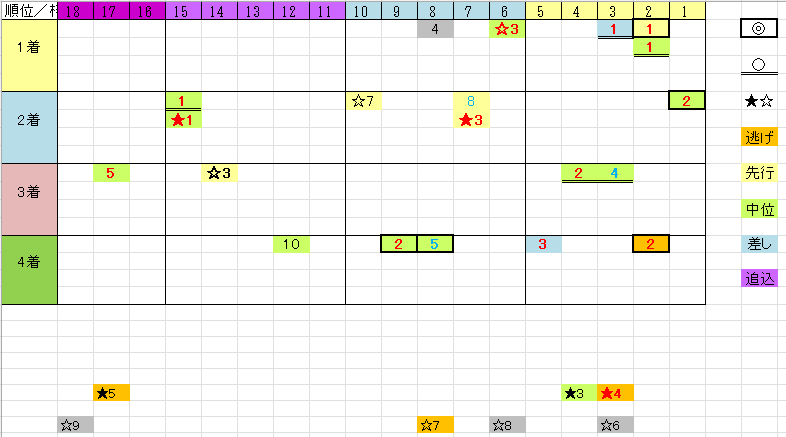
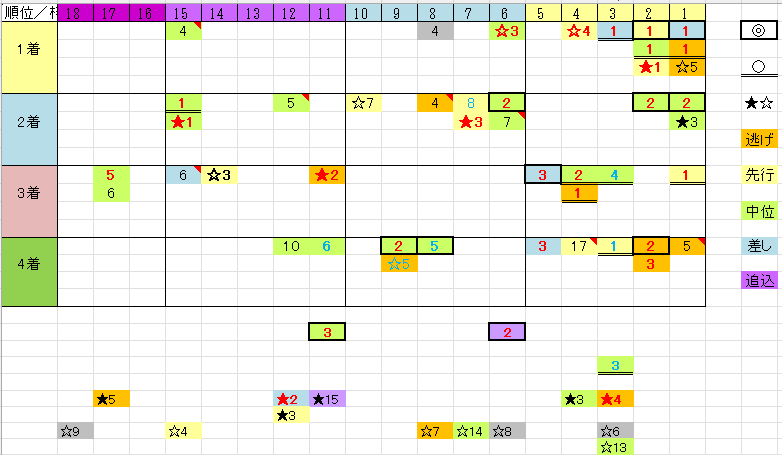
20261123update

Changed region(s): [[0.0, 0.0, 1.0, 1.0], [0.0307, 0.0892, 0.0614, 0.119]]

diff --git a/posts/gamble/2026-11-29-0001.md b/posts/gamble/2026-11-29-0001.md
@@ -5,25 +5,29 @@ category: "ギャンブル"
 ---
 * [-Hyper-Link to this SITE MAP-](../../sitemap.html)
 
-##JC　展望（仮版）
+##JC　展望
 
 <p><a href="../../images/20261129.png"><img src="../../images/20261129.png" border="0" /></a></p>
-<p>※データは仮版。20213～2025年（計5回）</p>
+<p>※データは、2019年を除く、2014～2025年（計11回）</p>
 <p>　</p>
 <p>●人気から見る傾向</p>
 <p>・後述のとおり、実績が必要で、人気サイド決着傾向が強い</p>
 <p>・過去５年に限ると、◎○は全て４着以内。これはかなりの偏り。</p>
 <p>　</p>
+<p>・実績上位の◎○２頭なら、３人気以下は信頼度低い</p>
+<p>　</p>
 <p>●脚質傾向</p>
-<p>・逃げは不利</p>
+<p>・逃げ穴はイマイチ</p>
 <p>　</p>
 <p>●前走</p>
 <p>・</p>
 <p>　</p>
 <p>●その他</p>
-<p>・馬券内のほとんどの馬に、何らかの印が付いている</p>
-<p>・秋天より「府中強っ！」な府中特化傾向は無いものの、ダービーやオークス実績＋αがある馬が来ている</p>
-<p>・</p>
+<p>・馬柱にあると心強いレース</p>
+<p>　・菊花賞、秋華賞　勝利</p>
+<p>　・府中G1　勝利</p>
+<p>　・アルゼンチン共和国杯　勝利</p>
+<p>・外国人騎手</p>
 <p>　</p>
 
 * [-Hyper-Link to this SITE MAP-](../../sitemap.html)

diff --git a/posts/gamble/2026-12-27-0001.md b/posts/gamble/2026-12-27-0001.md
@@ -7,25 +7,26 @@ category: "ギャンブル"
 
 ##有馬記念　展望
 
+<p>投票してきました</p>
 <p><a href="../../images/2026arimafan_vote.jpg"><img src="../../images/2026arimafan_vote.jpg" border="0" /></a></p>
-
-<!--
-<p><a href="../../images/20261122.png"><img src="../../images/20261122.png" border="0" /></a></p>
--->
+<p>　</p>
+<p><a href="../../images/20261227.png"><img src="../../images/20261227.png" border="0" /></a></p>
+<p>※データは、2015～2025年（計１１回）</p>
 <p>※データは年（計 回）</p>
 <p>　</p>
 <p>●人気から見る傾向</p>
+<p>・実績上位◎○なら、３人気まで</p>
 <p>・</p>
 <p>　</p>
 <p>●脚質傾向</p>
-<p>・</p>
+<p>・中団より前が多いには多いですが、追い込み以外はまんべんなく、と考えた方がいい</p>
 <p>　</p>
 <p>●前走</p>
 <p>・</p>
 <p>　</p>
 <p>●その他</p>
-<p>・</p>
-<p>・</p>
+<p>・２着馬に、穴傾向</p>
+<p>・ヒモ穴に逃げ</p>
 <p>・</p>
 <p>　</p>
 

diff --git a/posts/gamble/gamble_G1.md b/posts/gamble/gamble_G1.md
@@ -8,4 +8,6 @@ category: "ギャンブル"
 * [天皇賞（秋）-TENNOU-SHO-](https://nyargo1971.github.io/nyargos-blog/posts/gamble/2026-11-01-0001.html)
 * [エリザベス女王杯 -Queen Elizabeth Cup-](https://nyargo1971.github.io/nyargos-blog/posts/gamble/2026-11-15-0001.html)
 * [マイルチャンピオンシップ　-Mile Championship-](https://nyargo1971.github.io/nyargos-blog/posts/gamble/2026-11-22-0001.html)
+* [ジャパンカップ　-Japan Cup-](https://nyargo1971.github.io/nyargos-blog/posts/gamble/2026-11-29-0001.html)
+* [有馬記念（予定） -Arima Kinen(The Grand Prix)-](https://nyargo1971.github.io/nyargos-blog/posts/gamble/2026-12-27-0001.html)
 
